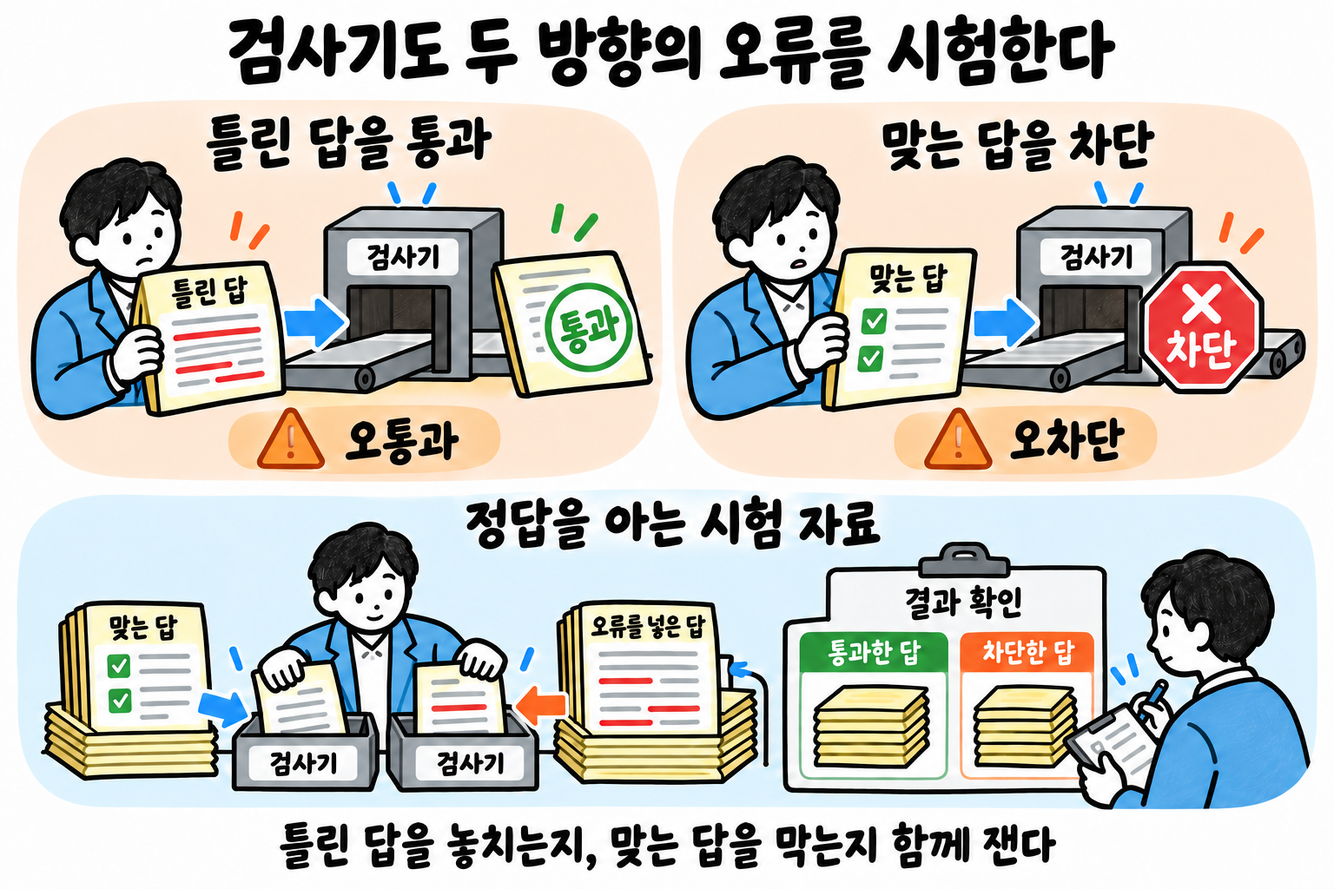
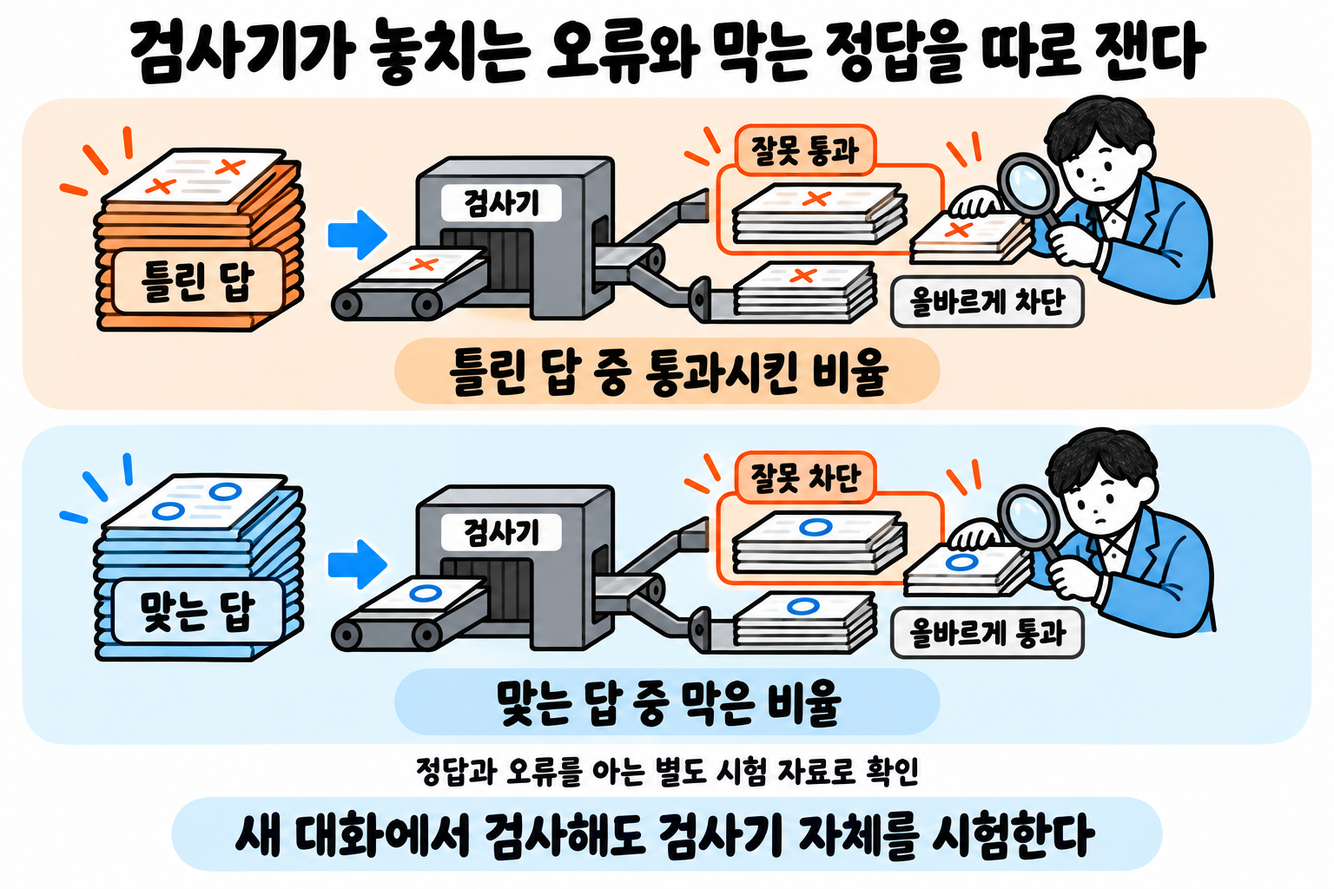
정의 1 전문 판단의 신뢰성 절 — 지하철 예시로 RAG·온톨로지·GraphRAG·Jev를 풀고, 판단 그림을 새로 그려 넣음

diff --git a/전문가 에이전트 정의 1.md b/전문가 에이전트 정의 1.md
@@ -1242,9 +1242,11 @@ flowchart TB
 #
 
 
-## 전문 판단의 신뢰성
+## 전문 판단의 신뢰성 ✅
 
 사람이 전문가에게 일을 맡기는 것은 판단을 받기 위해서다. 전문가는 사실을 확인하고, 그 사실을 기준에 비추어 결론을 내리고, 어떻게 처리할지 정해 준다.
+
+![자료만 인용한 답은 사용자가 이번 건과 맞는지 다시 확인해야 한다. 이번 건의 사실을 기준·조건·예외와 대조해 결론과 처리 방향을 정한 답은 그대로 쓸 수 있다.](docs/images/expert-definition/judgment-reliability.png)
 
 | 예 | 따지는 것 | 정해 주는 것 |
 |------|------|------|
@@ -1255,26 +1257,64 @@ flowchart TB
 
 그러니 틀린 판단을 내보내서는 안 된다. 없는 사실이나 근거를 지어내지 않는 것은 물론이고, 진짜 자료도 바르게 써야 한다. 진짜 자료를 가져왔더라도 뜻을 잘못 읽거나, 조건이나 예외를 빠뜨리거나, 계산을 틀리면 판단이 틀린다.
 
-### 갖춰야 할 전문 판단
+### 지하철로 이해하는 판단 기술 ✅
+
+“강남에서 광교까지 환승을 적게 해서 가려면?”이라는 질문을 받았다고 하자. 안내하려면 출발역과 도착역, 원하는 경로를 알아듣고, 역과 노선의 연결을 찾아 길을 계산한 뒤 설명해야 한다. 전문 판단도 물음을 알아듣고, 필요한 사실과 관계를 찾고, 기준을 적용해 결론을 낸다는 점에서 같다.
+
+먼저 문장 하나를 보자. **“강남역은 신분당선에 속한다.”** 강남역과 신분당선은 대상이고, ‘노선에 속한다’는 둘의 관계다. ‘역 → 노선에 속한다 → 노선’이라는 연결의 뜻과 종류를 정하는 것이 **온톨로지**, 그 틀에 ‘강남역 → 노선에 속한다 → 신분당선’처럼 실제 대상의 관계를 채운 것이 **지식 그래프**다.
+
+| 개념 | 하는 일 | 지하철에 비유하면 |
+|------|------|------|
+| **RAG** — 검색 증강 생성 | 질문에 필요한 자료를 찾아 모델에 주고, 그 자료를 바탕으로 답하게 한다. 문서 검색에는 낱말 검색과 뜻이 비슷한 글을 찾는 검색 등을 쓴다 | 안내문과 노선 자료를 찾아 읽은 뒤 길을 설명한다 |
+| **온톨로지** | 대상의 종류, 속성, 관계의 뜻과 연결할 수 있는 구조를 정한다 | ‘역’과 ‘노선’을 구분하고, ‘노선에 속한다’, ‘다음 역이다’, ‘환승한다’가 각각 무엇을 뜻하는지 정한다 |
+| **지식 그래프** | 대상과 그 사이의 관계를 연결해 저장한다. 여기에 담긴 사실이나 주장은 출처로 확인해야 한다 | 실제 역과 노선, 이웃 역, 환승 관계를 채운 노선도다 |
+| **GraphRAG** — 그래프 RAG | 그래프의 관계를 활용해 근거를 찾고, 관련 원문과 함께 모델에 주어 답하게 한다 | 출발역에서 이웃 역과 환승역을 따라가며 필요한 연결을 찾고, 그 결과로 길을 설명한다 |
+| **Jev** — 제브 | TypeSafe의 판단 모델이다. 주어진 자료에 대해 정해진 선택지, 점수, 참일 확률로 결과를 돌려준다 | ‘경로를 묻는 질문인가’, ‘이 자료가 답에 필요한가’를 판단하는 담당자다 |
+| **Jev GraphRAG** | 이 문서에서는 GraphRAG의 질문 해석·근거 평가 등에 Jev를 결합한 구성을 뜻한다 | Jev가 질문을 분류하고, 프로그램이 노선 연결을 찾아 계산하고, Jev가 근거를 평가한 뒤, 답변 모델이 길을 설명한다 |
+
+RAG는 자료를 찾아 답하는 전체 방법이고, GraphRAG는 그 안에서 그래프를 활용하는 방법이다. 그래프를 저장하는 곳과 관계를 찾는 프로그램, Jev, 답변을 쓰는 모델은 각각 고를 수 있다. 이 문서의 GraphRAG는 이런 방법을 뜻하며, [Microsoft GraphRAG](https://microsoft.github.io/graphrag/)는 그 방법을 구현한 도구의 한 예다. 개념 설명은 [Neo4j의 GraphRAG 안내](https://graphrag.com/concepts/intro-to-graphrag/)와 [지식 그래프 안내](https://graphrag.com/concepts/intro-to-knowledge-graphs/)를 따른다.
+
+**연결 규칙, 사실, 결론은 따로 확인한다.**
+
+- ‘강남역 → 노선에 속한다 → 양재역’은 역이 와야 할 곳과 노선이 와야 할 곳을 혼동한 기록이다. 온톨로지에 맞춘 형식 검사로 잡는다.
+- ‘강남역 → 노선에 속한다 → 9호선’은 역과 노선의 종류는 맞지만, 참고 지하철 자료의 사실과 다르다. 형식이 맞아도 원자료와 대조해야 한다.
+- ‘강남역과 광교역은 같은 노선에 속한다’는 사실만으로 두 역이 바로 이웃한다고 결론낼 수 없다. 이웃 역인지 알려면 ‘다음 역’ 관계를, 가장 빨리 도착하는지 알려면 운행 시간과 대기 시간까지 확인해야 한다.
+
+전문 업무에서도 같다. ‘A사가 B사와 계약했다’는 연결을 찾았어도, 그 연결만으로 계약을 해지할 수 있다고 결론낼 수는 없다. 계약 내용, 이번 건의 사실, 적용 조건과 예외를 함께 대어 봐야 한다. 그래프에 연결이 없을 때도 관계가 실제로 없는 것인지, 아직 자료를 넣지 못한 것인지 구분한다.
+
+**Jev에는 작고 분명한 판단을 맡긴다.**
+
+| 기능 | 지하철에서 묻는 것 | 전문 판단에 쓰는 자리 |
+|------|------|------|
+| [Choice — 선택](https://docs.typesafe.ai/primitives/choice) | 경로, 역의 노선, 환승역, 지원하지 않는 질문 가운데 무엇인가 | 물음의 종류나 후보 대상 선택. 선택지에는 ‘판단 못 함’이나 ‘해당 없음’을 둔다 |
+| [Score — 점수](https://docs.typesafe.ai/primitives/score) | 찾은 자료가 질문과 무관한가, 답의 일부에 필요한가, 직접 답하는가 | 근거를 읽을 순서와 관련성 평가. 점수의 단계마다 뜻을 정한다 |
+| [Noul — 참일 확률](https://docs.typesafe.ai/primitives/noul) | 주어진 자료가 ‘이 역에서 이 노선을 탈 수 있다’는 주장을 뒷받침하는가 | 하나의 조건이나 주장이 주어진 근거로 뒷받침되는지 평가 |
+
+Jev의 점수와 확률은 모델의 판단이다. Choice·Score의 `confidence`는 선택지별 확률이 얼마나 한쪽에 모였는지 나타내며, 현실의 정답률을 보장하지 않는다. Noul이 낮게 나와도 자료가 부족한 것인지 주장이 반박된 것인지는 따로 가려야 한다. ‘관련성이 높다’, ‘근거가 뒷받침한다’, ‘필요한 근거가 다 모였다’도 서로 다른 판단이다. 반대 근거와 예외는 관련성 점수만으로 빼지 않는다. [TypeSafe의 Jev 설명](https://docs.typesafe.ai/introduction), [confidence 설명](https://docs.typesafe.ai/confidence).
+
+지하철 예제에서는 경로와 환승 수를 프로그램이 계산하고 답변 모델은 그 결과를 설명한다. 전문 업무에서도 금액·기한처럼 규칙으로 계산할 수 있는 것은 검증한 코드가 계산하고, 해석이 필요한 것은 모델이 근거와 조건을 따져 판단한다. Jev를 붙여도 최종 결론은 뒤의 열한 가지 검증을 모두 거친다.
+
+지하철 비유와 역할 구분의 바탕: [지하철 학습 화면](<../astra jev graph rag/static/index.html>), [예제의 구성과 데이터 범위](<../astra jev graph rag/README.md>).
+
+---
+
+### 갖춰야 할 전문 판단 ✅
 
 ![전문가는 확인된 사실에 기준·조건·예외와 반대 근거를 대어 결론과 처리 방향을 정한다. 결과에는 결론·근거·적용 조건·처리 방향을 담고, 미확인 사항과 판단 범위를 함께 밝힌다.](docs/images/expert-definition/professional-judgment-delivery.png)
 
 | 할 일 | 어떻게 하나 |
 |------|------|
-| 전문 지식을 갖춘다 | ▶ 그 직무의 개념과 원리, 기준과 절차를 알고, 예외와 실제 적용 사례까지 익혀 둔다<br>▶ 이번 건에 필요한 지식을 찾아 쓴다 |
-| 사실을 확인한다 | ▶ 확인된 사실, 누군가의 주장이나 가정, 아직 확인하지 못한 것을 서로 나눈다<br>▶ 자료의 대상과 시점, 출처, 적용 범위가 이번 건에 맞는지 본다 |
-| 모르는 것을 밝힌다 | ▶ 모르는 것을 그럴듯하게 채우지 않는다<br>▶ 결론에 꼭 필요한 정보가 없으면 먼저 구한다<br>▶ 지금 판단할 수 있는 것과 아직 정할 수 없는 것은 나눠 밝힌다<br>▶ 판단할 수 있는 일을 "~일 수도 있다"며 흐리거나, 확인해 달라고 거듭 물으며 미루지 않는다 |
-| 결론을 내린다 | ▶ 사실에 기준을 대어 보고 예외에 걸리는지 본다<br>▶ 해석이 갈리거나 반대 근거가 있으면 따져 본 뒤 결론과 처리 방향을 정한다 |
-| 판단을 검증한다 | ▶ 내보내기 전에 결론을 좌우한 사실, 규칙, 계산, 추론을 다시 확인한다<br>▶ 근거 없이 단정한 곳과 기준을 잘못 댄 곳을 잡는다 |
-| 끝까지 판단한다 | ▶ 자료를 찾아 주거나 선택지를 늘어놓고 끝내지 않는다<br>▶ 받은 권한과 한도 안에서는 스스로 판단하고 처리한다<br>▶ 사람에게 넘기는 것은 다섯 경우뿐이다<br>▶ 되돌릴 수 없는 행동, 승인이 걸린 일, 판단이 서지 않는 일, 한도를 넘는 일, 자격을 갖춘 사람만 할 수 있는 일이다<br>▶ 이때도 준비를 다 해 두고 결정만 받는다<br>▶ 자격을 갖춘 사람만 할 수 있는 일은 고객이 그 사람에게 직접 맡긴 건에서 그 사람의 지휘를 받아 준비한다<br>▶ 그 사람은 결정만 하지 않고, 준비물을 직접 검토해 자기 이름으로 낸다 |
+| 사실을 확인한다 | ▶ 확인된 사실, 누군가의 주장이나 가정, 아직 확인하지 못한 것을 서로 나눈다<br>▶ 자료의 대상과 시점, 출처, 적용 범위가 이번 건에 맞는지 본다<br>▶ 모르는 것을 그럴듯하게 채우지 않는다<br>▶ 결론에 꼭 필요한 정보가 없으면 먼저 구한다 |
+| 전문 기준·조건·예외를 적용한다 | ▶ 그 직무의 개념과 원리, 기준과 절차를 알고, 예외와 실제 적용 사례까지 익혀 둔다<br>▶ 이번 건에 필요한 지식을 찾아 쓴다<br>▶ 확인한 사실에 기준을 대어 보고 적용 조건과 예외에 걸리는지 본다 |
+| 반대 근거를 검토한다 | 해석이 갈리거나 반대 근거가 있으면 따져 본다 |
+| 결론과 처리 방향을 정한다 | ▶ 결론과 처리 방향을 정하고, 근거·적용 조건·미확인 사항·판단 범위를 함께 밝힌다<br>▶ 지금 판단할 수 있는 것과 아직 정할 수 없는 것은 나눈다<br>▶ 판단할 수 있는 일을 "~일 수도 있다"며 흐리거나, 확인해 달라고 거듭 물으며 미루지 않는다<br>▶ 자료를 찾아 주거나 선택지를 늘어놓고 끝내지 않는다<br>▶ 받은 권한과 한도 안에서는 스스로 판단하고 처리한다<br>▶ 사람에게 넘기는 것은 다섯 경우뿐이다<br>▶ 되돌릴 수 없는 행동, 승인이 걸린 일, 판단이 서지 않는 일, 한도를 넘는 일, 자격을 갖춘 사람만 할 수 있는 일이다<br>▶ 이때도 준비를 다 해 두고 결정만 받는다<br>▶ 자격을 갖춘 사람만 할 수 있는 일은 고객이 그 사람에게 직접 맡긴 건에서 그 사람의 지휘를 받아 준비한다<br>▶ 그 사람은 결정만 하지 않고, 준비물을 직접 검토해 자기 이름으로 낸다 |
+| 출고 전에 검증한다 | ▶ 내보내기 전에 결론을 좌우한 사실, 규칙, 계산, 추론을 다시 확인한다<br>▶ 근거 없이 단정한 곳과 기준을 잘못 댄 곳을 잡는다 |
 
 ---
 
-### 전문 판단을 망치는 잘못
+### 전문 판단을 망치는 잘못 ✅
 
-근거를 지어내는 것만 막아서는 부족하다. 진짜 근거를 잘못 써서 판단이 틀리는 것도 막아야 한다. 자료를 찾고 답을 만드는 동안 생기는 잘못은 열한 가지다.
-
-![같은 원문을 읽어도 예외를 놓치면 오판한다. 이번 건의 조건·예외·기준일을 대조해 결론과 처리 방향을 정한다.](docs/images/expert-definition/evidence-application-judgment.png)
+![전문 판단을 망치는 열한 가지 잘못. 잘못 이해, 헛짚음, 잘못 분류, 범위 넘음, 기준일 불일치, 틀린 자료, 우선순위 오류, 빠뜨림, 사실 연결 오류, 규칙 적용 오류, 지어냄을 각각의 사례로 보여 준다.](docs/images/expert-definition/evidence-application-judgment.png)
 
 | 잘못 | 무슨 일인가 | 예 |
 |------|------|------|
@@ -1292,7 +1332,9 @@ flowchart TB
 
 ---
 
-### 잘못이 생기는 원인
+### 잘못이 생기는 원인 ✅
+
+![잘못이 생기는 열두 가지 원인. 물음 미확정, 지시·자료 경계 부재, 개념·관계 기준 부재, 권한 확인 누락, 자료 수집 결함, 사실·가정 혼동, 확증 편향·영합, 자료 판독 누락, 외운 지식·암산 의존, 요건 대조 생략, 인계·요약 중 조건 유실, 출고 전 검증 부실을 각각의 장면으로 보여 준다.](docs/images/expert-definition/judgment-error-causes.png)
 
 | 원인 | 무슨 일인가 | 이어지는 잘못 |
 |------|------|------|
@@ -1308,8 +1350,6 @@ flowchart TB
 | 요건 대조 생략 | ▶ 기준을 알아도 원칙만 대고, 이번 건의 요건과 예외에 하나씩 대어 보지 않는다<br>▶ 계약서 제목이나 붙어 있는 분류 표시로 종류를 정한다<br>▶ 판본과 값이 기준 날짜의 것인지 확인하지 않는다<br>▶ 뜻이 갈리는 조항을 한 가지 해석으로만 읽는다 | 잘못 분류, 기준일 불일치, 규칙 적용 오류 |
 | 인계·요약 중 조건 유실 | ▶ 여러 재료와 에이전트가 일을 이어받거나, 긴 작업에서 현재 작업 정보를 줄이거나, 원문을 답으로 옮겨 쓰는 동안 대상, 판본, 권한, 적용 조건, '할 수 있다' 같은 한정 표현, '미확인' 표시가 빠진다<br>▶ 다음 단계는 빠진 줄 모르고 앞 단계의 말을 확인된 근거로 받는다 | 헛짚음, 범위 넘음, 기준일 불일치, 사실 연결 오류, 규칙 적용 오류, 지어냄 |
 | 출고 전 검증 부실 | ▶ 인용이 붙어 있으면 해석과 계산도 맞다고 여긴다<br>▶ 답을 만든 대화 안에서 스스로 검사해 자기 답을 후하게 본다<br>▶ 판단 기록이 끊겨 있어 무엇을 검사할지 알 수 없다 | 앞의 잘못이 걸러지지 않고 그대로 나간다 |
-
-어느 원인이었는지는 에이전트가 쓴 자료와 판본, 그리고 판단하고 계산하고 검사한 기록을 보고 가린다.
 
 ---
 
@@ -1461,15 +1501,17 @@ $$
 
 종류, 관계의 종류, 규칙 코드, 출처 등급표, 점검 목록은 넣거나 고치기 전에 숙련된 전문가가 만든 사례 시험을 통과해야 한다. 사례에는 경계값, 예외, 기준일 경계, 반례를 넣는다. 일하는 쪽과 검사기는 같은 기준을 대므로, 기준이 틀리면 둘 다 그 잘못을 지나친다. 건마다 적는 사실 줄은 사례 시험 대신 출처와 열한 가지 검증 항목으로 확인한다.
 
-온톨로지는 업무에 나오는 개념과 속성, 관계의 뜻과 짜임을 정해 둔 사전이다. 공통 기준의 개념과 관계 부품 가운데 종류와 관계의 뜻을 정한 부분이 온톨로지다. 이것이 있으면 모든 재료가 같은 기준으로 말과 대상을 가려낸다. 어떤 말들이 같은 것을 가리키는지, 어떤 대상이 서로 다른지, 무엇이 무엇과 어떻게 이어지는지, 대상이 어느 종류에 드는지를 재료마다 다르게 보지 않는다. 실제 대상과 사실은 온톨로지에 정해 둔 개념과 관계에 맞춰 적어 둔다.
+지하철의 ‘역·노선·환승 관계’에 해당하는 것이 여기서는 ‘사람·회사·계약·규칙과 그 관계’다. 공통 기준의 개념과 관계 부품 가운데 종류, 속성, 관계의 뜻과 구조를 정한 부분이 온톨로지다. 실제 대상과 사실·주장을 출처와 함께 채워 연결한 부분은 지식 그래프다. 같은 대상의 다른 이름은 그 대상의 이름 목록에 적고, 이름이 같은 다른 대상은 고유 번호로 가린다. 모든 재료는 이 기준과 기록을 함께 쓴다.
 
 온톨로지가 있다고 판단이 저절로 맞지는 않는다. 규칙을 적용하고, 근거를 확인하고, 권한을 검사하는 일은 그 일을 맡은 재료가 한다. 온톨로지는 원문을 구하고, 사실인지 가려내고, 결론을 검증하는 일과 함께 쓰여야 쓸모가 있다.
 
 온톨로지를 아직 만들지 않은 직종에서도 재료마다 맡은 검사는 한다. 다만 온톨로지가 갖춰지기 전에는 대어 볼 기준이 없는 항목에 기대는 결론을 확정하지 않고 빈 곳으로 밝힌다. 이때 물음 해석은 물음 원문과 일을 시작할 때 세운 계획의 항목을, 대상 식별은 원래 기록의 고유 번호를, 대상 분류는 계약이나 법이 정한 뜻과 업무 지식의 점검 목록을, 사실 연결은 원문에서 뽑은 사실을 답과 따로 적어 둔 중간 기록과 원문 위치를 대어 볼 기준으로 쓴다.
 
-![온톨로지는 개념과 관계의 뜻을 정하고, LLM Wiki는 지식을 정리하고 갱신한다. 전문 판단은 원문과 이번 건의 조건·예외·기준일을 대조해 결론과 처리 방향을 정한다.](docs/images/expert-definition/ontology-wiki-judgment.png)
+![온톨로지는 개념·관계의 뜻과 구조를 정한다. LLM Wiki에 정리한 자료는 원문·판본·적용 조건을 확인한 뒤 쓴다. 전문 판단은 이번 건에 기준을 적용하고 검증하는 일이다. 개념·관계·규칙·출처·권한의 공통 기준이 있어도 사실 확인과 판단 검증은 따로 한다.](docs/images/expert-definition/ontology-wiki-judgment.png)
 
 LLM Wiki는 모델이 자료를 읽고 정리해 두는 위키다. 이것을 함께 쓰더라도 위키에 정리된 내용을 바로 근거로 쓰지 않는다. 원문과 판본, 적용 조건을 확인한 뒤에 쓴다.
+
+RAG는 이 원문과 확인한 정리를 찾아 판단에 공급한다. GraphRAG는 지식 그래프의 연결을 따라 필요한 자료를 더 찾는다. 온톨로지는 두 검색이 같은 뜻과 대상을 다루도록 기준을 주고, Jev는 그 과정의 분류·평가를 맡길 수 있는 모델이다.
 
 ---
 
@@ -1478,6 +1520,17 @@ LLM Wiki는 모델이 자료를 읽고 정리해 두는 위키다. 이것을 함
 일은 ① 물음 파악, ② 대상 확정, ③ 권한 거르기, ④ 자료 모으기, ⑤ 전문 판단, ⑥ 판단 검사의 여섯 단계로 하고, 이 단계들은 업무 처리 흐름 안에서 돈다. ①·②는 의도 파악, ③·④는 자료 확인, ⑤는 판단·계획 단계에서 한다. ⑥은 판단·계획 단계 끝에서, 결론에 기대는 행동을 하거나 사람에게 결정을 요청하기 전에 마친다. 자료 확인 단계에서 상대나 기관에 묻거나 실험하는 것과 판단·계획 단계의 작은 시험도 결론에 기대는 행동이므로, 그 행동을 정한 판단은 행동 전에 ⑤와 ⑥을 거친다. 그 행동이 다섯 경우에 들면 사람의 결정도 행동 전에 받는다. 결정을 요청할 때는 대안마다 ⑤와 ⑥을 마친다. 처리한 뒤에는 검증 단계에서 실제 결과로 ⑥을 다시 한다. ②의 규칙은 자료 확인 단계에서 새로 나온 대상과 값에도 똑같이 쓴다.
 
 권한은 어느 단계든 자료를 찾거나 쓰기 전에 매번 확인한다. ③에서는 이번 판단에 쓸 수 있는 자료의 범위를 정한다.
+
+지하철 비유의 기술을 여섯 단계에 놓으면 다음과 같다. Jev를 쓰는 자리는 해당 업무의 시험을 통과한 경우에만 맡긴다.
+
+| 단계 | 지하철 안내라면 | 전문 판단에서 쓰는 기술 |
+|------|------|------|
+| ① 물음 파악 | ‘빠르게’인지 ‘환승 적게’인지 알아듣는다 | 주 모델이나 Jev가 물음의 종류와 조건을 가른다. 맡긴 사람이 정하지 않은 기준은 짐작으로 고르지 않는다 |
+| ② 대상 확정 | ‘고터’를 고속터미널로 찾고, 같은 이름의 역은 가른다 | 온톨로지의 종류와 대상별 이름·고유 번호를 쓴다. 모델이 고른 후보는 원기록으로 확인한다 |
+| ③ 권한 거르기 | 이번 안내에 쓸 수 있는 자료의 범위를 정한다 | 검색 프로그램과 권한 규칙이 문서·관계·원문을 찾기 전에 접근을 제한한다 |
+| ④ 자료 모으기 | 안내문을 찾고, 출발역에서 환승역까지 연결을 따라간다 | 원문 RAG와 GraphRAG를 함께 쓴다. Jev는 근거 관련성을 평가할 수 있으며, 필수 자료·예외·반대 근거는 별도로 챙긴다 |
+| ⑤ 전문 판단 | 원하는 기준으로 경로와 환승 수를 계산하고 안내를 쓴다 | 검증한 코드가 계산하고, 주 모델이 조건·예외를 적용해 결론과 처리 방향을 정한다 |
+| ⑥ 판단 검사 | 안내한 경로가 실제 연결과 맞고, 요청한 조건을 지켰는지 확인한다 | 별도 검사기가 원문·계산·판단 기록과 최종 답을 대조한다. Jev를 써도 개별 분류·평가만 맡기며, 점수 하나로 결론을 확정하지 않는다 |
 
 더 찾아보거나 계산하거나 검증해서 풀 수 있는 문제는 에이전트가 직접 푼다. ①·②에서 뜻이나 대상을 맡긴 사람에게 확인해야 하면 의도 파악 단계에서 되묻는다. ④·⑤에서 근거와 대안을 따져도 정할 수 없는 충돌은 판단·계획 단계에서 사람에게 결정을 요청한다. 이 절에서 사람에게 넘기는 일은 갖춰야 할 전문 판단의 다섯 경우 가운데 다음에 든다.
 
@@ -1488,7 +1541,7 @@ LLM Wiki는 모델이 자료를 읽고 정리해 두는 위키다. 이것을 함
 | 조건부 결론에 기대는 행동 전에 전제를 확인받는 것 | 승인이 걸린 일 |
 | 맡긴 사람이 아닌 곳에 먼저 알리는 것, 맡긴 사람이 아닌 사람에게 나간 결과를 고쳐 알리는 것, 기한이 지나면 되살릴 수 없는 권리를 쓰지 않기로 한 처리 방향 | 되돌릴 수 없는 행동 |
 
-![물음 파악, 대상 확정, 권한 거르기, 자료 모으기, 전문 판단, 판단 검사 순서로 일한다. 전제나 대상이 갈리지 않으면 맡긴 사람에게 되묻고, 자료가 비면 빈 곳을 채우고, 정할 수 없는 충돌은 사람에게 결정을 요청하고, 검사에서 뒷받침되지 않으면 자료 모으기로 돌아간다.](docs/images/expert-definition/judgment-work-order.png)
+![물음 파악, 대상 확정, 권한 거르기, 자료 모으기, 전문 판단, 판단 검사 순서로 일한다. 권한은 모든 단계에서 자료를 찾거나 쓰기 전에 확인한다. 정할 수 없는 충돌은 대안마다 판단·검사를 마친 뒤 사람에게 결정을 요청한다. 검사에서 뒷받침되지 않거나 판단할 수 없으면 자료를 다시 확인한다.](docs/images/expert-definition/judgment-work-order.png)
 
 아래 표는 잘못마다 그 검증 항목을 통과하도록 일하는 방법이다.
 
@@ -1510,7 +1563,7 @@ LLM Wiki는 모델이 자료를 읽고 정리해 두는 위키다. 이것을 함
 
 ### 근거에서 판단까지 이어지는 기록
 
-![직접 사실은 원문과, 계산 결과는 입력·단위·규칙·도출 기록과, 해석한 결론은 이번 건의 사실·조건·예외·반대 근거와 대조한다. 인용이 있는 것만으로 계산과 전문 판단까지 맞는 것은 아니다.](docs/images/expert-definition/judgment-evidence-types.png)
+![원문·판본에서 사실·관계, 기준 적용·계산, 결론·처리 방향까지 기록을 잇는다. 확인된 사실과 주장·가정·미확인을 구분하고 반대 근거도 검토한다. 기록을 검사해 뒷받침되는 결론만 확정하고, 실패·미확인은 보완해 다시 검사한다. 보완할 수 없는 결론은 미확인으로 남긴다.](docs/images/expert-definition/judgment-evidence-types.png)
 
 무엇을 확인했는지부터 어떤 기준을 어떻게 대어 결론을 골랐는지까지, 판단의 기록이 끊기지 않고 이어져야 한다. 기록은 단계마다 그 단계를 맡은 재료가 남긴다. 판단 근거 기록 재료는 이 기록들을 하나로 잇는다.
 
@@ -1573,15 +1626,20 @@ flowchart TB
 
 **고른 기술**
 
+기본 구성은 **원문 RAG + 업무에 필요한 작은 온톨로지·지식 그래프 + 관계를 따라 찾는 GraphRAG + 주 모델의 판단 + 코드 계산 + 별도 검증**으로 한다. 문서에서 답할 수 있는 물음은 원문을 바로 찾고, 여러 대상과 문서의 연결이 필요한 물음은 관계 검색을 함께 쓴다. Jev는 작게 나눈 판단의 비교 후보로 두고, 업무별 시험을 통과한 자리부터 붙인다. 그 자리에 Jev를 붙인 구성이 이 문서의 Jev GraphRAG다.
+
 | 정할 것 | 고른 것 | 까닭 |
 |------|------|------|
-| 관계 따라가기 | ▶ 관계만 담는 전용 데이터베이스는 처음에는 두지 않는다<br>▶ 관계를 여러 단계 따라가며 찾는 일이 느려지면 그때 들인다 | 상위 종류와 관계는 지금 데이터베이스로도 따라갈 수 있다 |
-| 적는 형식 | ▶ 말의 뜻(용어, 다른 이름, 종류의 위아래)은 웹 표준을 정하는 국제 기구 W3C의 용어 사전 형식인 SKOS로 적는다<br>▶ 실제 대상과 사실, 관계의 조건은 따로 정한 틀로 적는다 | ▶ 다른 회사나 기관의 용어 사전과 주고받을 수 있다<br>▶ SKOS에는 효력 기간, 상태, 권한을 적을 자리가 없다 |
+| 원문 검색 — RAG | ▶ 파일 검색이나 문서 검색 서버로 원문을 찾는다. 문서가 많으면 낱말 검색과 뜻이 비슷한 글을 찾는 검색을 함께 쓴다<br>▶ 문서 번호·대상 번호를 아는 조회는 정확한 번호로 찾는다<br>▶ 원문 위치, 판본, 기준일, 권한을 함께 확인한다 | 지하철의 안내문을 찾아 읽는 자리다. 용어가 비슷하다는 것만으로 같은 대상이나 적용 가능한 자료라고 보지 않는다 |
+| 온톨로지와 적는 형식 | ▶ 맡길 업무의 실제 물음을 답하는 데 필요한 종류·속성·관계부터 정한다<br>▶ 용어, 다른 이름, 개념의 위아래는 W3C의 용어 사전 형식인 [SKOS](https://www.w3.org/TR/skos-primer/)로 적는다<br>▶ 실제 대상의 종류, 관계의 시작·끝에 올 수 있는 종류, 효력 기간·상태·권한은 별도의 데이터 구조와 검사 규칙으로 정한다 | ▶ 지하철의 ‘역·노선·환승’부터 정하는 자리다<br>▶ SKOS는 용어 체계를 주고받는 데 쓰며, 그것만으로 사실 관계와 업무 조건 전체를 검사하지는 못한다 |
+| 지식 그래프와 저장소 | ▶ 공통 기준에 맞춰 대상과 관계를 기록하고, 관계마다 원문 위치·판본·참인 기간·확인 상태·권한을 붙인다<br>▶ 하네스에서는 기록 파일, 사내 플랫폼에서는 기존 데이터베이스의 대상·관계 표로 시작한다<br>▶ 관계 전용 데이터베이스는 필요한 관계 조회의 속도·규모·유지 부담을 재어 더 나은 경우에 들인다 | ▶ 지하철의 실제 노선도를 채우는 자리다<br>▶ 그래프는 대상을 연결해 표현하는 방식이다. 저장소의 제품명과 별개로 구성할 수 있다 |
+| 관계 검색 — GraphRAG | ▶ 찾은 대상에서 업무에 필요한 관계를 따라가며 근거를 모으고, 각 관계의 원문도 함께 가져온다<br>▶ 찾는 동안 관계와 연결 문서의 권한·효력 기간을 확인한다<br>▶ 법률과 시행령, 계약과 별첨처럼 꼭 따라가야 할 연결은 검색 점수와 관계없이 확인한다<br>▶ 큰 문서 집합의 공통 주제를 묻는 업무가 생기면 관계 묶음의 요약을 쓰는 방식도 비교한다 | ▶ 지하철에서 이웃 역·환승역을 따라 길을 찾는 자리다<br>▶ 문서 검색으로 찾은 조각과 관계 검색으로 찾은 조각을 합쳐 쓴다. 요약을 썼어도 결론은 원문까지 확인한다 |
+| 좁은 판단 — Jev | ▶ 물음 분류, 후보 선택, 근거 관련성, 개별 주장 뒷받침 여부를 각각 시험한다<br>▶ 같은 자료와 기준을 준 주 모델의 판정과 정확도·처리 시간·비용을 비교한다<br>▶ 한국어와 해당 직무의 예외·반례를 통과한 항목만 맡긴다<br>▶ 판단 못 함, 기준 이하, 지원 범위 밖, 호출 실패는 주 모델의 재검토나 추가 확인으로 넘긴다. Jev 결과가 없어도 통과한 것으로 치지 않는다 | ▶ 지하철 질문을 분류하고 찾은 근거를 평가하는 자리다<br>▶ [TypeSafe는 각 질문을 하나의 분명한 판단으로 나누도록 안내한다](https://docs.typesafe.ai/introduction). 여러 조건을 따지는 전문 결론과 정밀 계산은 각각 주 모델과 코드가 맡는다 |
 | 효력 기간 | ▶ 값이 하나뿐이어야 하는 승인된 사실은 같은 때에 값이 둘 생기지 않게 막는다<br>▶ 출처마다 다른 주장은 막지 않고 함께 둔다 | 출처마다 다른 주장까지 막으면 부딪치는 자료를 나란히 두고 견줄 수 없다 |
 | 규칙 계산 | ▶ 권한과 실행 조건은 OPA로 판정한다<br>▶ OPA로 충분한 판정은 OPA에 그대로 둔다<br>▶ 전문 계산은 검증한 코드나 직종마다 쓰는 계산기에 맡긴다<br>▶ 규칙과 계산기는 따로 있어도, 승인된 판본끼리 한 묶음으로 배포한다<br>▶ 계산을 짜는 방식은 법 조문을 계산 코드로 옮겨 적는 공개 언어 Catala, 공개 도구 OpenFisca와 견주어 본다 | 전문 계산은 원칙, 겹친 예외, 기준 날짜, 단위, 반올림까지 똑같이 재현해야 한다 |
 | 같은 대상 합치기 | 이름이나 주소가 조금씩 다른 두 기록이 같은 대상일 확률을 내는 도구를 쓴다 | 애매한 쌍만 골라 주 모델에게 넘길 수 있다 |
 | 원문 조각 찾기 | ▶ 조각마다 무엇에 관한 글인지 알 수 있게 개념 번호와 앞뒤 한두 문장을 붙인다<br>▶ 다른 이름으로 찾아도 나오게 한다 | 조각만 떼어 놓으면 무엇에 관한 글인지 알 수 없다 |
-| 원문 확인 판정 | ▶ 세 환경 모두, 검사기의 모델로는 주 모델을 답을 만든 대화가 아닌 새 대화로 띄워 쓴다<br>▶ 주장마다 원문 위치, 한정 조건, 반대 자료까지 대조한다<br>▶ 검사기의 모델에는 도구를 주지 않고, 더 볼 원문은 검사기의 프로그램이 찾아 넣어 준다 | ▶ 같은 대화에서 검사하면 자기 답을 후하게 본다<br>▶ 새 대화에서 검사하고 인용이 원문과 맞아도 답이 맞다는 보장은 없다<br>▶ 검사기의 모델도 원문에 숨은 지시에 걸릴 수 있다 |
+| 원문 확인 판정 | ▶ 세 환경 모두, 검사기의 기본 모델로는 주 모델을 답을 만든 대화가 아닌 새 대화로 띄워 쓴다<br>▶ Jev는 시험을 통과한 개별 분류·평가에 쓸 수 있다. Jev를 쓴 경우에도 결론을 좌우하는 근거와 조건은 별도 검사기가 다시 대조한다<br>▶ 주장마다 원문 위치, 한정 조건, 반대 자료까지 대조한다<br>▶ 검사기의 모델에는 도구를 주지 않고, 더 볼 원문은 검사기의 프로그램이 찾아 넣어 준다 | ▶ 같은 대화에서 검사하면 자기 답을 후하게 본다<br>▶ 모델의 높은 점수만으로 원문 대조나 계산 검사를 생략하지 않는다<br>▶ 검사기의 모델도 원문에 숨은 지시에 걸릴 수 있다 |
 | 관계 자동 추출, 논리 추론기 | ▶ 원문에서 관계를 자동으로 뽑을 때는 승인된 종류와 관계에 맞는 후보만 뽑고, 검증 없이 확정하지 않는다<br>▶ 논리 추론기(적어 둔 관계에서 새 사실을 끌어내는 프로그램)는 지금의 찾기와 계산으로 풀 수 없는 업무 물음이 생길 때만 도입을 검토한다<br>▶ SKOS 파일처럼 RDF(W3C가 정한 자료 교환 형식)로 적은 자료가 정해 둔 짜임을 지키는지 검사할 때는 공개 검사 도구 pySHACL 도입을 검토한다 | ▶ KAG(정해 둔 틀에 맞춰 원문에서 관계를 뽑는 공개 도구)처럼 틀을 따라 관계를 뽑는 방식도 틀린 사실을 낼 수 있다<br>▶ 짜임이 맞는지, 논리가 맞는지, 현실과 맞는지는 서로 다른 검사라 따로 시험해야 한다 |
 
 ---
@@ -1612,7 +1670,7 @@ flowchart TB
 
 ### 판단을 일의 성과로 잇는 재료
 
-![판단한 내용을 권한 안에서 실행하고 처리 결과를 확인한다. 새 근거나 기준 변경이 생기면 영향받는 판단·산출물을 찾아 다시 검사하고, 이미 전달한 결과에 필요한 정정을 알린다.](docs/images/expert-definition/judgment-to-work-results.png)
+![맞는 판단을 실제 성과로 잇기 위해 계획·대안·완료 조건, 도구·형식·실행, 복구·비용·위험, 보안·윤리·악용 대응, 변경 감시·정정, 평가 기준을 점검한다. 처리 결과를 모르면 재실행 전에 조회하고, 근거 변경의 영향을 받은 결과는 고쳐 알린다. 판단도 틀렸다면 열한 가지 검증 항목에서 오류를 가린다.](docs/images/expert-definition/judgment-to-work-results.png)
 
 판단이 맞아도 실행 순서를 틀리거나, 결과를 잘못 전하거나, 장애를 복구하지 못하면 일의 성과가 나지 않는다. 이런 잘못은 아래 재료가 막는다. 그 과정에서 판단까지 틀렸으면 열한 가지 검증 항목 가운데 어디서 틀렸는지도 가린다.
 
@@ -1633,7 +1691,7 @@ flowchart TB
 
 ### 잘못을 어느 검증 항목에 세는가
 
-![천 원 단위를 원으로 잘못 읽은 첫 오류가 계산과 결론으로 번진다. 원인은 처음 틀린 칸에 세고, 고친 뒤에는 영향을 받은 계산과 결론을 다시 검사한다.](docs/images/expert-definition/judgment-error-chain.png)
+![천 원을 원으로 잘못 분류한 오류는 대상 분류에 한 건으로 세고, 그 때문에 틀린 계산과 결론은 추가로 세지 않는다. 원인을 고친 뒤 영향받은 결과를 재검사한다. 권한 위반은 권한 준수에 세며, 여러 에이전트가 일해도 최초 오류에 센다. 기록으로 가릴 수 없으면 미확인으로 둔다.](docs/images/expert-definition/judgment-error-chain.png)
 
 잘못 하나는 처음 틀린 검증 항목 하나에만 센다. 그 때문에 뒤이어 틀린 항목은 따로 세지 않는다.
 
@@ -1661,11 +1719,15 @@ flowchart TB
 
 ### 맡겨도 되는지 확인하는 기준
 
-![숙련 전문가와 AI에게 같은 입력·자료·권한·기한을 주고 실제 결과·성과·사람 개입을 비교한다.](docs/images/progress-plan/fair-evaluation.png)
+![숙련 전문가, 보완 전 구현, 보완 후 구현에 같은 과제·자료·권한·기한을 주고 결론·적용 조건·처리 결과와 사람 개입·시간·비용을 비교한다. 지어낸 사실·근거, 무권한 자료·행동, 자료 속 지시 따름, 핵심 조건·계산 오류가 나오면 실패다. 시험으로 확인한 범위만 맡기며 필수 기준을 넘은 구현끼리 시간과 비용을 비교한다.](docs/images/expert-definition/judgment-fair-evaluation.png)
 
 처음에는 직종 하나의 좁은 업무에서 시작한다. 맡길 업무와 판단할 범위를 정하고, 숙련된 전문가가 검토한 과제와 반례로 실제로 일을 시켜 본다.
 
 답이 그럴듯하게 읽히는지만 보지 않는다. 결론, 적용 조건, 처리 결과까지 맞는지 본다. 같은 과제를 보완 전 구현과 보완한 구현에 똑같이 맡겨 아래 항목을 견주고, 숙련된 전문가의 판단과 성과와도 견준다.
+
+검색·판단 기술은 **① 원문 RAG와 주 모델, ② 여기에 관계 검색을 더한 GraphRAG, ③ 같은 GraphRAG의 개별 분류·평가를 Jev에 맡긴 구성**으로 나눠 비교한다. 세 구성에 같은 원문, 대상, 기준일, 권한과 검증 기준을 적용한다. 관계를 더 찾으면서 필요한 근거와 반대 근거를 덜 놓치는지, Jev가 틀린 근거를 채택하거나 필요한 근거를 버리는지, 그 결과 최종 결론이 달라지는지 본다. 그래프 구축·갱신과 원문 재확인에 드는 비용도 포함한다.
+
+Jev를 쓸 때는 점수의 뜻과 채택 기준을 개발용 과제로 정하고 판정용 과제에서 확인한다. 높게 평가한 항목도 정답과 대조해 틀린 채 통과한 비율을 잰다. 모델 판본이나 질문·선택지·점수 기준을 바꾸면 해당 판단을 다시 시험한다. 관계 검색이나 Jev를 더한 구성이 필수 기준을 넘고, 판단 품질·시간·비용에서 이득을 보인 업무에 적용한다.
 
 | 정할 것 | 기준 |
 |------|------|
@@ -1694,7 +1756,7 @@ flowchart TB
 | 판단·성과 | ▶ 이번 건의 결론, 처리 방향, 결과물이 맞은 비율<br>▶ 맡긴 사람에게 해야 할 판단을 다시 떠넘긴 건수<br>▶ 사람에게 넘겨야 할 일을 넘기지 않고 처리한 건수(0이어야 한다)<br>▶ 같은 과제를 결론과 관계없는 이름이나 순서만 바꿔 여러 번 맡겼을 때 결론이 갈린 비율 |
 | 비용 | ▶ 업무 하나를 판단하고 검증하고 처리하는 데 든 시간과 돈, 그리고 보완 전보다 늘어난 만큼<br>▶ 전문 지식, 온톨로지, 공통 기준을 만들고 고치는 데 든 사람의 시간 |
 
-![검사기에는 틀린 답을 통과시키는 오류와 맞는 답을 막는 오류가 모두 있다. 정답과 오류를 알고 있는 별도 시험 자료로 두 오류를 각각 측정하며 새 대화라는 이유만으로 검사를 신뢰하지 않는다.](docs/images/expert-definition/checker-false-pass-false-block.png)
+![정답과 오류를 아는 별도 시험 자료로 검사기를 시험한다. 틀린 답 중 통과시킨 비율과 맞는 답 중 막은 비율을 따로 잰다. 올바르게 차단하거나 통과시킨 결과와 구분하며, 새 대화에서 검사해도 검사기 자체를 시험한다.](docs/images/expert-definition/checker-false-pass-false-block.png)
 
 앞의 실패 넷이 나오지 않고 직종이 정한 판단·성과 기준을 넘은 구현끼리만 처리 시간, 비용, 유지 부담을 견준다.
 
